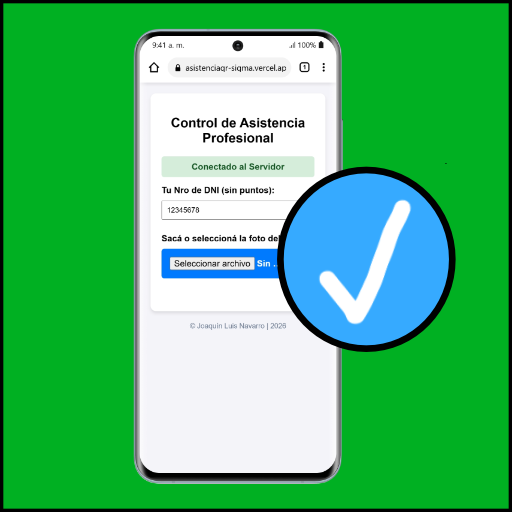
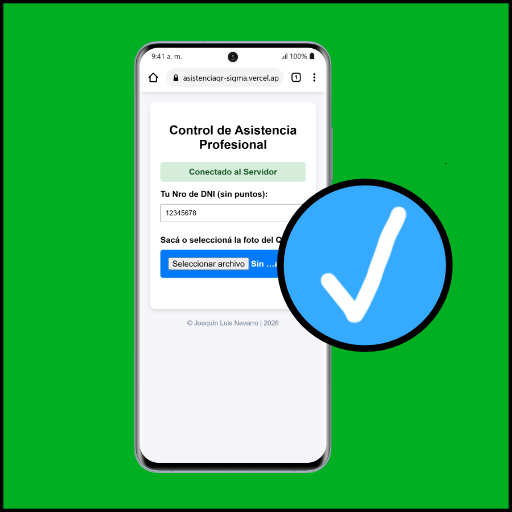
Add files via upload

diff --git a/service-worker.js b/service-worker.js
@@ -1,14 +1,14 @@
 // 1. Nombre del caché incrementado
-const CACHE_NAME = 'asist-pro-root-v0.4'; 
+const CACHE_NAME = 'asist-pro-root-v0.5'; 
 
 // Rutas absolutas del repositorio para evitar fallos en GitHub Pages
 const ASSETS = [
   '/',
   '/index.html',
-  '/manifest.json?v=0.4',
+  '/manifest.json?v=0.5',
   '/checkmark_192x192E.png',
   '/checkmark_512x512E.png',
-  '/maskable-icon-512x512.png?v=0.4' // Nombre corregido según tu manifest
+  '/maskable-icon-512x512.png?v=0.5' // Nombre corregido según tu manifest
 ];
 
 // Instala el Service Worker y guarda los archivos en caché

diff --git a/index.html b/index.html
@@ -7,7 +7,7 @@
 
     <!-- Enlaces obligatorios para la PWA instalable en GitHub Pages -->
     <!-- Cambiar el ?v= de tu manifiesto obliga al navegador a leer el archivo nuevo -->
-<link rel="manifest" href="/manifest.json?v=0.4">
+<link rel="manifest" href="/manifest.json?v=0.5">
     <meta name="theme-color" content="#20558a">
     <meta name="mobile-web-app-capable" content="yes">
     <meta name="apple-mobile-web-app-capable" content="yes">